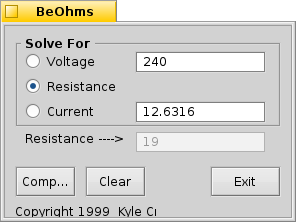
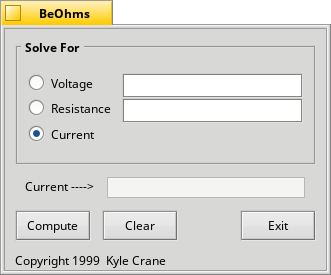
Screenshot updated as per layout updates (#4)
* fixed Copyright notice alignment
* Updated screenshot as per layout updates

diff --git a/src/BeOhmsWindow.cpp b/src/BeOhmsWindow.cpp
@@ -58,7 +58,7 @@ BeOhmsWindow::BeOhmsWindow()
 		.SetInsets(10)
     	.AddGrid(B_USE_DEFAULT_SPACING, 0.0f)
        	  	.AddGlue(0,0)
-    	  	.AddGlue(1,0)
+       	  	.AddGlue(1,0)
 			.Add(m_pOptVoltage, 0, 1)
 			.Add(m_pOptResistance, 0, 2)
 			.Add(m_pOptCurrent, 0, 3)
@@ -79,7 +79,7 @@ BeOhmsWindow::BeOhmsWindow()
 	
 	
 	BLayoutBuilder::Group<>(back, B_VERTICAL, 0.0f)
-		.SetInsets(10)
+		.SetInsets(10,10,10,0)
 		.Add(m_pSolveGroup)
 		.Add(o_BoxLayout)
 		.AddGrid()
@@ -87,13 +87,14 @@ BeOhmsWindow::BeOhmsWindow()
 			.Add(m_pBtnClear, 1, 0)
 			.AddGlue(2, 0)
 			.Add(m_pBtnExit, 3, 0)
-		.End()		
+		.End()
+		.AddStrut(10)
+		.Add(pLblCopyright)		
 	.End();
 	
 	BLayoutBuilder::Group<>(this, B_VERTICAL, 0.0f)
 		.SetInsets(0)
 		.Add(back)
-		.Add(pLblCopyright)
     .End();
 
 }
